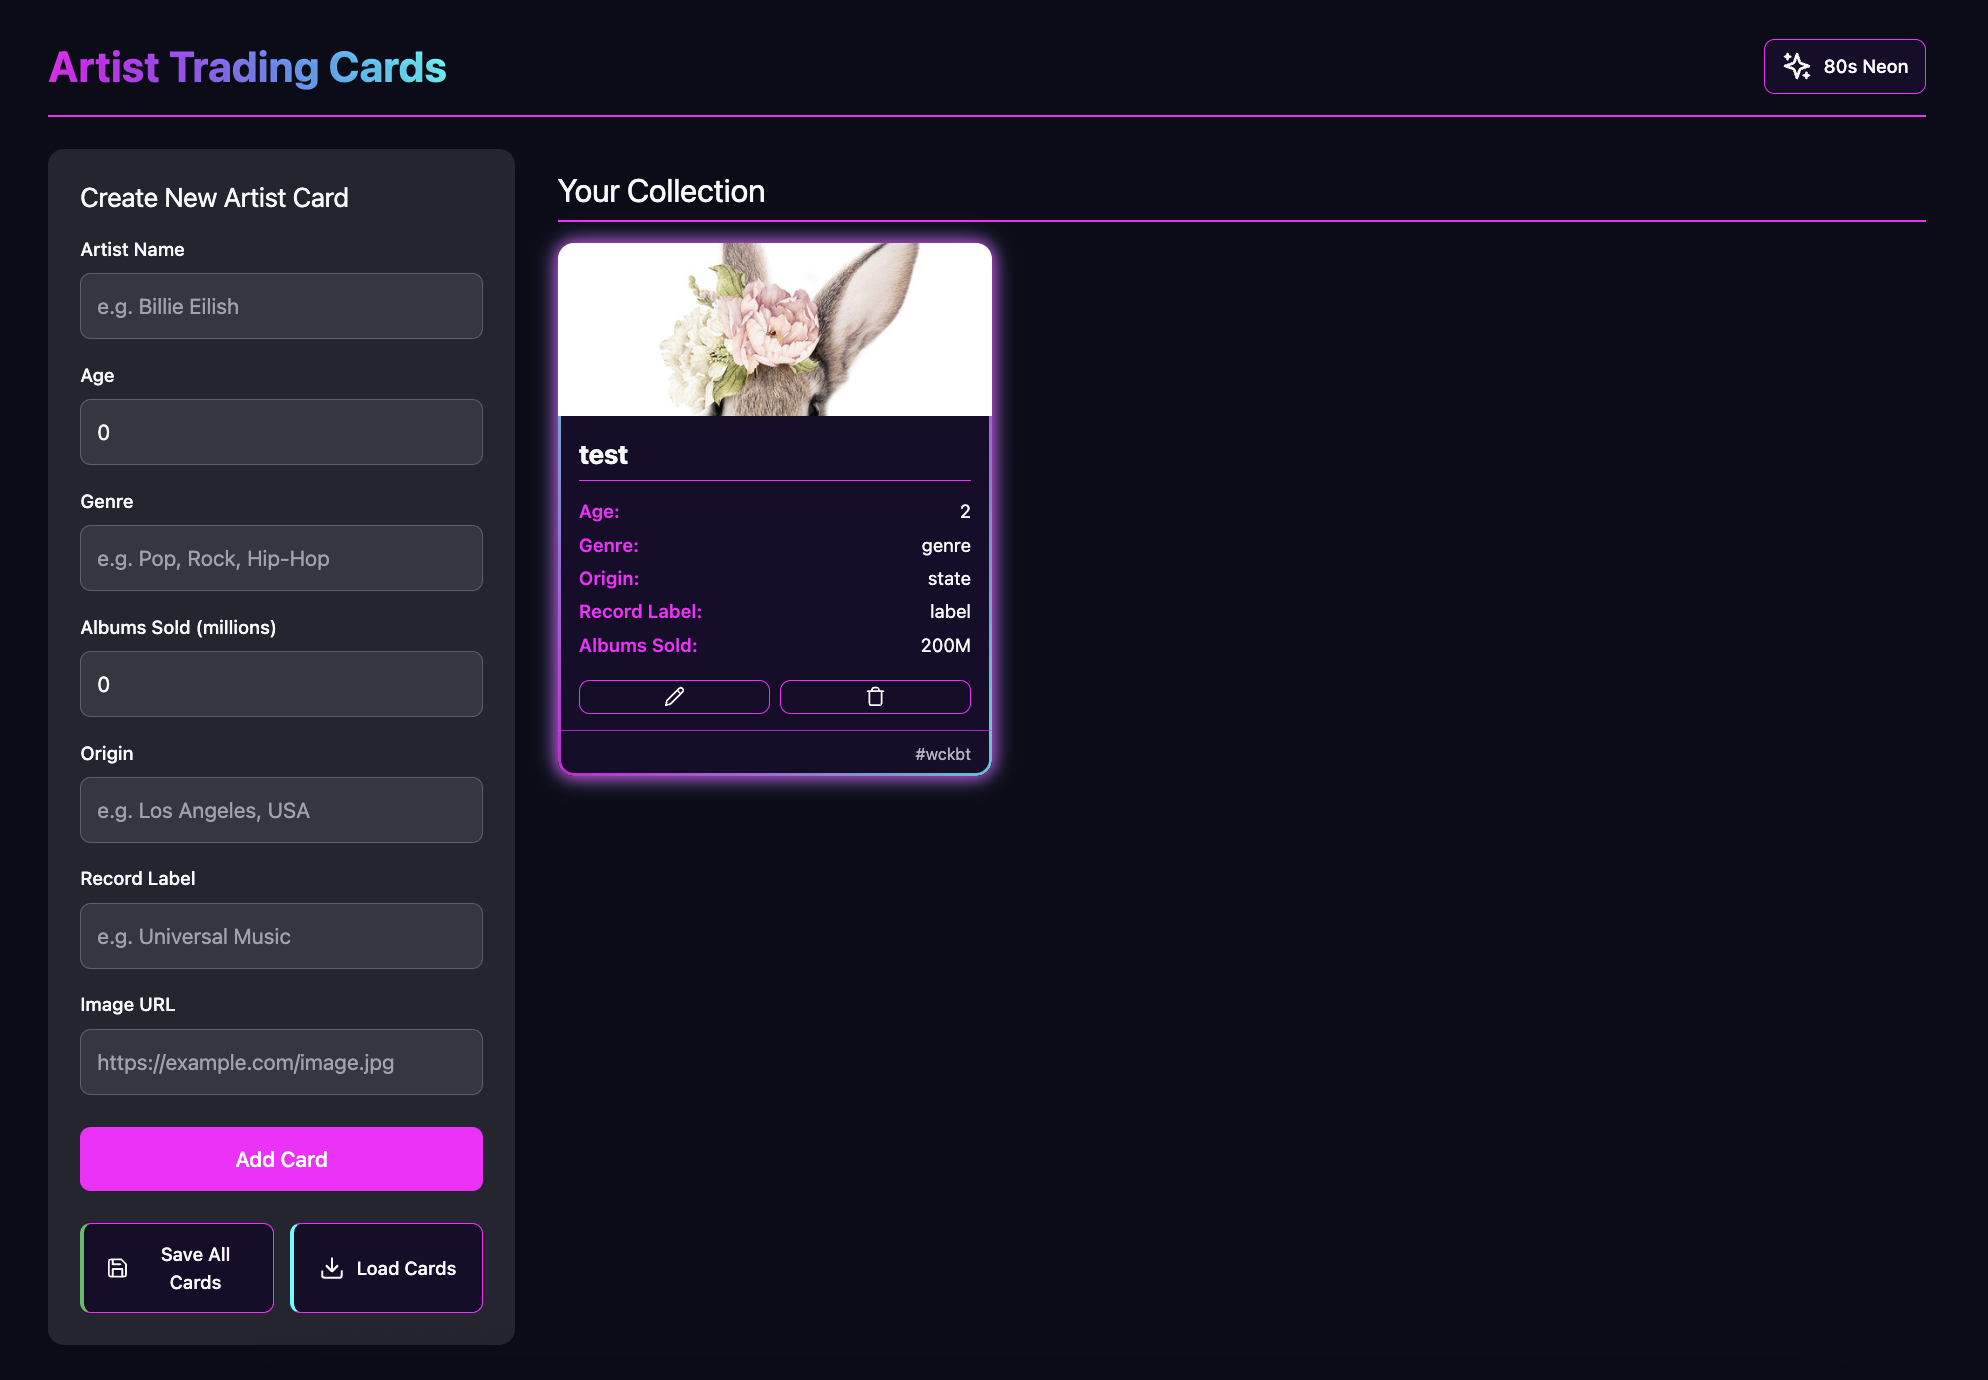
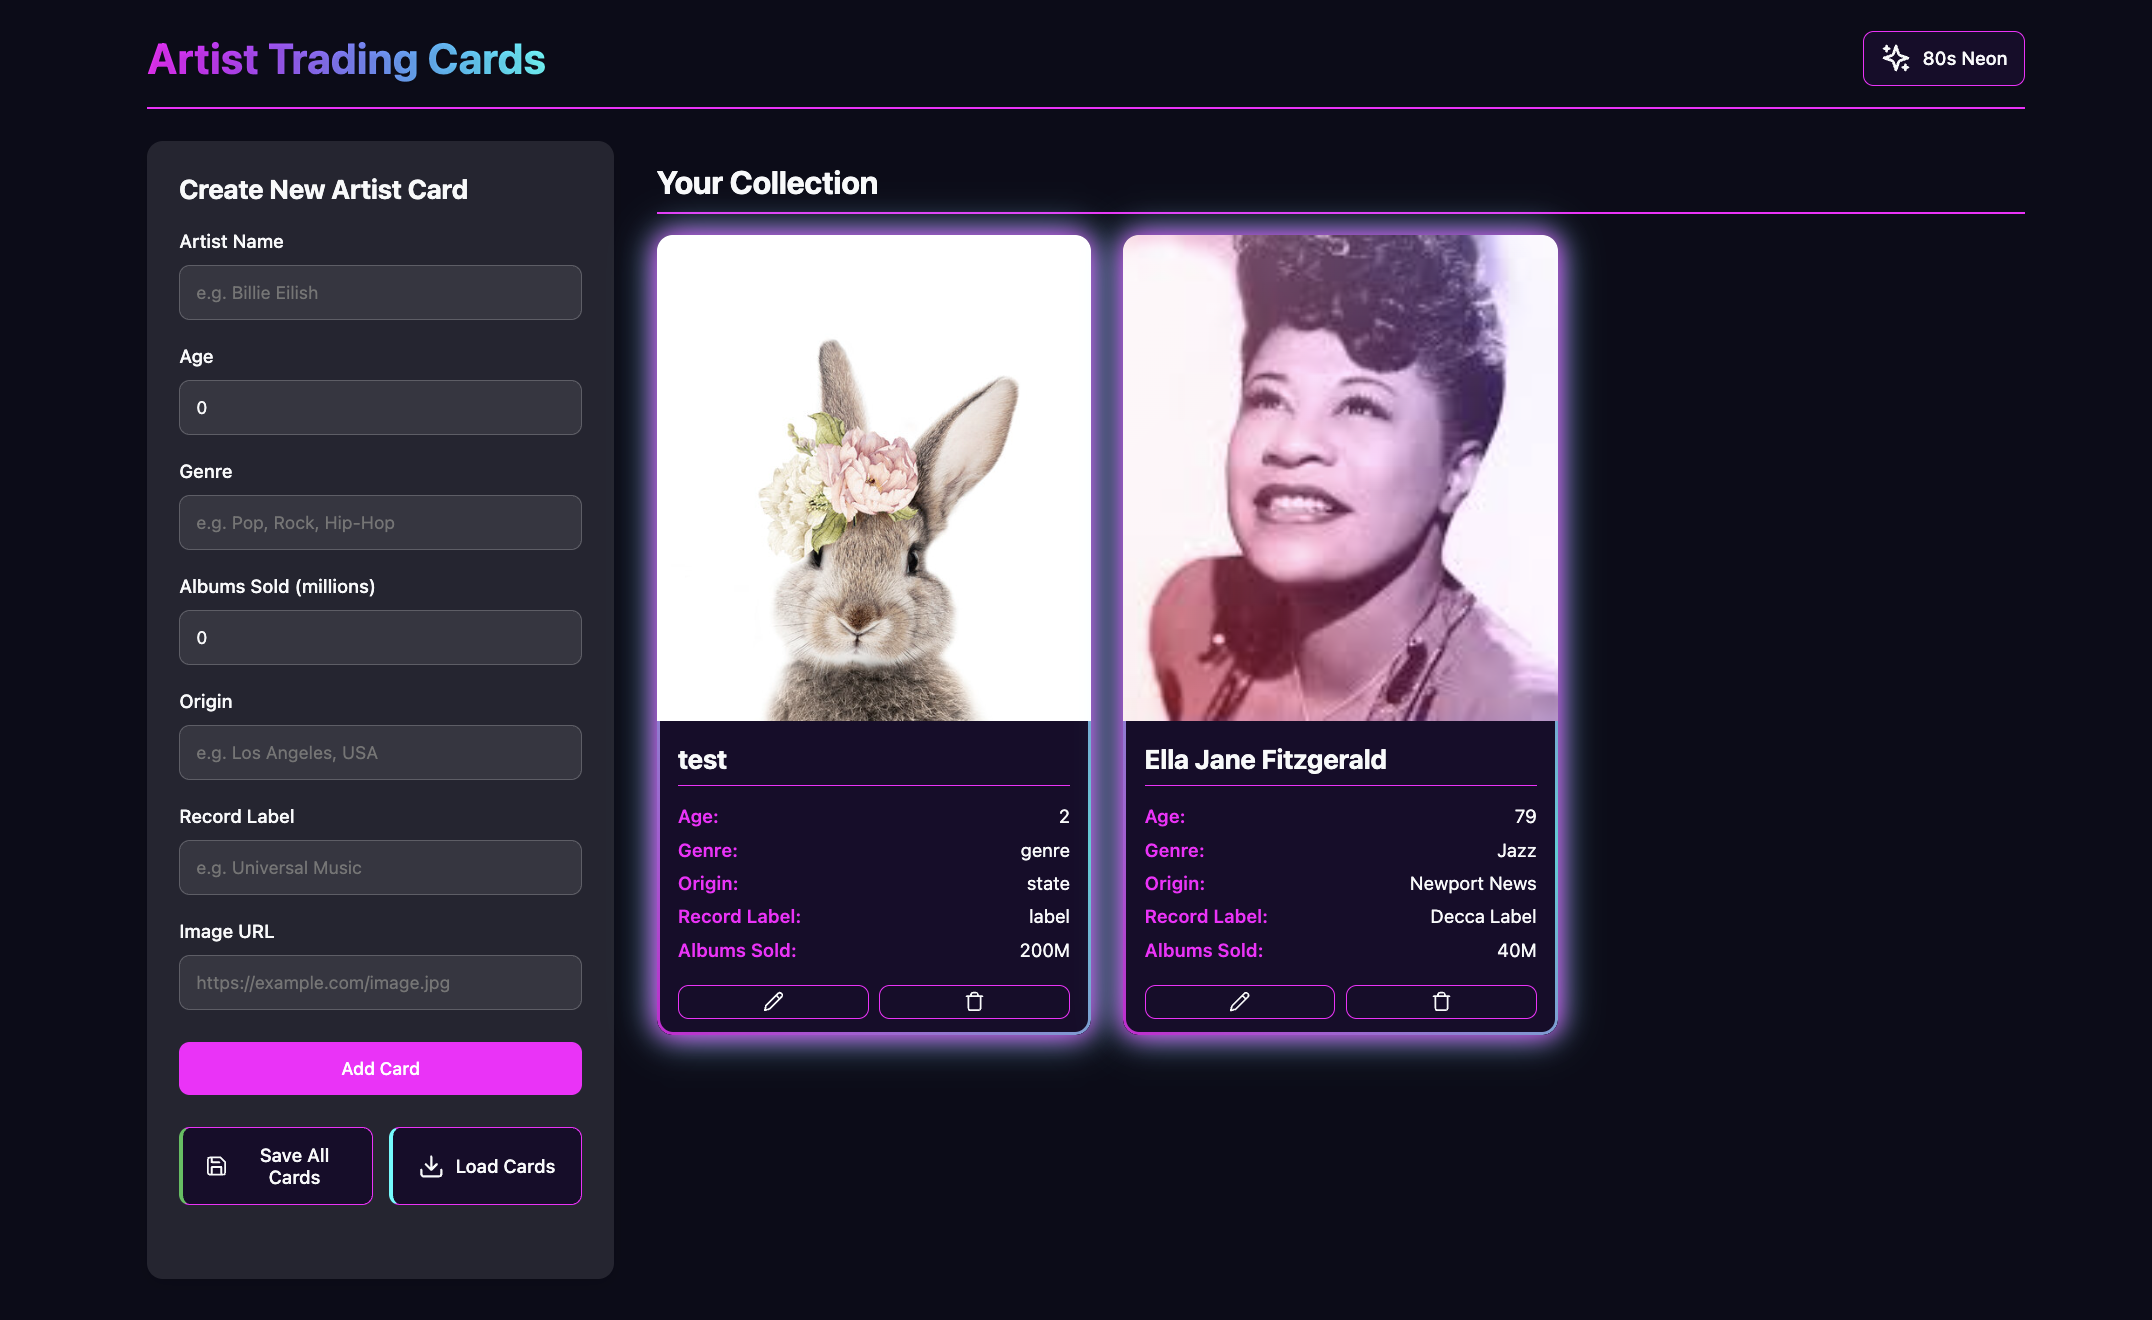
remove card-footer. edit readme

Changed region(s): [[0.0, 0.0932, 0.7485, 0.9939], [0.0312, 0.0311, 0.2495, 0.0932], [0.8421, 0.0311, 0.9668, 0.0932]]

diff --git a/src/components/Card.tsx b/src/components/Card.tsx
@@ -51,9 +51,7 @@ const Card: React.FC<CardProps> = ({ card, onEdit, onDelete }) => {
           <Trash size={16} />
         </button>
       </div>
-      <div className="card-footer">
-        <span className="card-collector-number">#{card.id.substring(0, 5)}</span>
-      </div>
+      
     </div>
   );
 };

diff --git a/Readme.md b/Readme.md
@@ -22,11 +22,23 @@ _________
 - add new card
 - edit cards
 - delete cards
+- chose Theme: Dark, Light, 80s Pulse Neon
 _________
 
 ## XMind Kickoff
 ![Xmind Kickoff](src/assets/img/XMind_KickOff.png)
 
-## XMind after bolts first draft
+## XMind after bolt´s first draft
 ![Xmind after bolts first draft](src/assets/img/XMind_afterFirstShot.png)
+
+____
+## Tech Stack
+![Tech Stack](src/assets/img/TechStack.png)
+
+## AI Tools
+- Chat GPT for the prompt for bolt
+- bolt.new
+- copilot
+______
+
 # GroupProject_ArtistTradingCards
